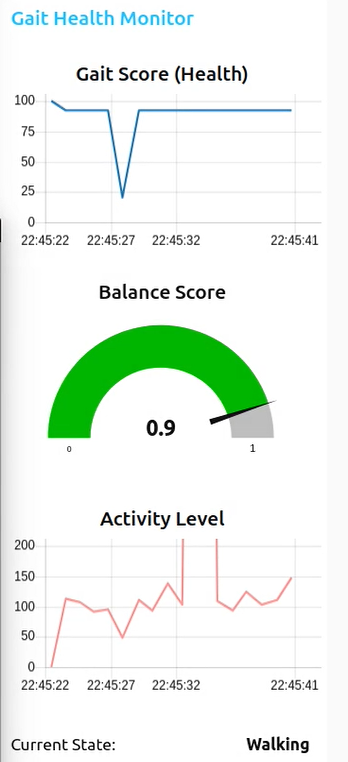
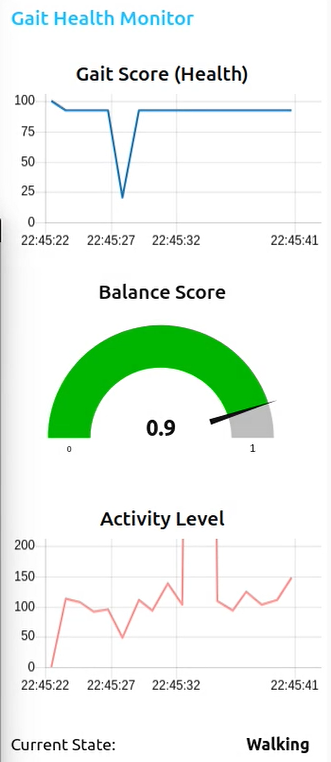
docs: polish README layout and remove license section

diff --git a/README.md b/README.md
@@ -55,18 +55,18 @@ The system adopts a hybrid edge-cloud architecture:
 
 ### Monitoring & Notification Overview
 
-<table>
+<table width="800">
   <tr>
     <td align="center" valign="bottom">
-      <img src="assets/results_fall_alert.png" alt="Fall Alert (LINE Push)" height="492"><br>
+      <img src="assets/results_fall_alert.png" alt="Fall Alert (LINE Push)" height="440"><br>
       <b>Fall Alert (LINE Push)</b>
     </td>
     <td align="center" valign="bottom">
-      <img src="assets/results_gait_analysis.png" alt="Gait Analysis (LINE Reply)" height="492"><br>
+      <img src="assets/results_gait_analysis.png" alt="Gait Analysis (LINE Reply)" height="440"><br>
       <b>Gait Analysis (LINE Reply)</b>
     </td>
     <td align="center" valign="bottom">
-      <img src="assets/results_dashboard.png" alt="Dashboard (Node-RED)" height="492"><br>
+      <img src="assets/results_dashboard.png" alt="Dashboard (Node-RED)" height="440"><br>
       <b>Dashboard (Node-RED)</b>
     </td>
   </tr>
